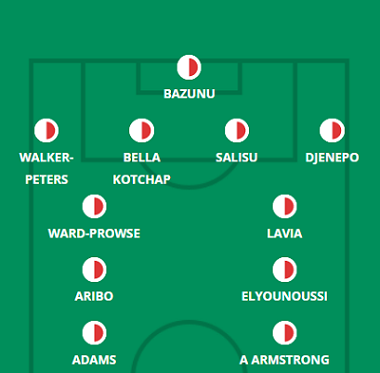
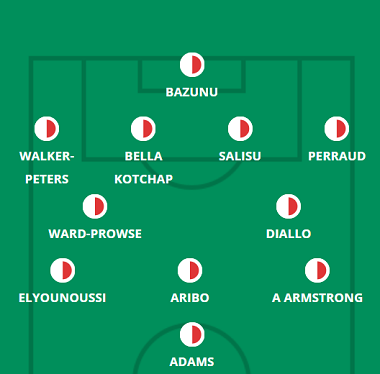
south e spurs

diff --git a/tot.html b/tot.html
@@ -66,7 +66,7 @@
             <hgroup>
                 <h1> Provável Escalação</h1>
                 <h2 class="direita"> por FabioVascão </h2>
-                <h3 class="direita"> Atualizado em 30/Agosto/2022 </h3>
+                <h3 class="direita"> Atualizado em 02/Setembro/2022 </h3>
             </hgroup>
     
             <h2 class="time"> <img src="_fotos/_logos/logospurs.png" />Tottenham</h2>
@@ -75,10 +75,9 @@
                     <img src="_fotos/_dinamicas/tot.png" />
                 </figure>
             </aside>
-                <div class="escalacao"><h2 class="titulo">Ultimas Notícias</h2> <h4><p>Bryan Gil (não especificado) e Lucas Moura (lesão no tendão) estão fora da viagem ao West Ham, enquanto Rodrigo Bentancur também é considerado uma grande dúvida devido à concussão. Enquanto isso, Oliver Skipp (lesão no pé) e Cristian Romero (lesão múscular) acabaram de voltar aos treinos, e Antonio Conte disse a repórteres na segunda-feira que os Spurs teriam que "esperar para dizer que estão completamente recuperados". Yves Bissouma para Bentancur é uma mudança muito provável, enquanto Conte prometeu que Richarlison "com certeza" seria titular em pelo menos uma das próximas três partidas - inicialmente, Conte disse que o brasileiro jogaria no "próximo jogo", antes de revisar essa resposta quando desafiado por um repórter. Mesmo que não houvesse nada a ser lido nesse lapso inicial da língua, a rotação parece provável nesta semana de três partidas e o fracassado Son Heung-min parece ser o primeiro na fila para um descanso com base na forma atual. Conte pode guardar mais mudanças para o fim de semana, já que a viagem ao West Ham parece a partida mais difícil no papel e considerando que apenas 65 horas separam as semanas 5 e 6; Os laterais Matt Doherty e Ryan Sessegnon estarão entre aqueles que provavelmente verão o tempo de campo nos próximos dois jogos da liga.</p></h4><br>
-                    <h4><strong>Jogadores fora da próxima partida:</strong> Bergwijn, Parrott, Rodon, Lucas Moura e Scarlett
-                    </h4><br><br>
-                    <h4><strong>Jogadores dúvidas:</strong> Romero e Skipp</h4>
+                <div class="escalacao"><h2 class="titulo">Ultimas Notícias</h2> <h4><p>Bryan Gil (não especificado) e Lucas Moura (lesão no tendão de aquiles) estão fora da visita do Fulham, mas Rodrigo Bentancur (concussão) e Cristian Romero (lesão múscular) foram aprovados e entrarão na disputa. Apenas 65 horas separam as semanas 5 e 6, então a decisão de Antonio Conte de fazer apenas uma mudança (forçada) no meio da semana e usar apenas um de seus cinco substitutos atribuídos aponta para o italiano fazer algumas alterações no XI inicial no sábado. Romero recuperar seu lugar de Davinson Sanchez é uma mudança viável, enquanto Bentancur fazendo o mesmo às custas de Yves Bissouma é outra depois que Conte sugeriu que o ex-jogador de Brighton estava um "passo atrás" de seus rivais posicionais - mas uma possível derrota para Pierre-Emile Hojbjerg pode fazer a mente de Conte para ele. Mudanças na lateral também estão em jogo, com Matt Doherty e Ryan Sessegnon pressionando pelo tempo de jogo às custas de Emerson Royal e Ivan Perisic, enquanto Conte já havia prometido jogar Richarlison contra West Ham, Fulham ou Marselha no Liga dos Campeões, um já foi, faltam dois. Será Son Heung-min ou Dejan Kulusevski abrindo caminho para o brasileiro se isso acontecer no sábado, com o ex o provável candidato ao machado se Conte estiver puramente decidindo a forma.</p></h4><br>
+                    <h4><strong>Jogadores fora da próxima partida:</strong> Bergwijn, Gil e Lucas Moura</h4><br><br>
+                    <h4><strong>Jogadores dúvidas:</strong> Hojbjerg</h4>
                 </div> 
         </header>
         </article>

diff --git a/south.html b/south.html
@@ -66,7 +66,7 @@
             <hgroup>
                 <h1> Provável Escalação</h1>
                 <h2 class="direita"> por FabioVascão </h2>
-                <h3 class="direita"> Atualizado em 30/Agosto/2022 </h3>
+                <h3 class="direita"> Atualizado em 02/Setembro/2022 </h3>
             </hgroup>
     
             <h2 class="time"> <img src="_fotos/_logos/logosouth.png" />Southampton</h2>
@@ -75,9 +75,9 @@
                     <img src="_fotos/_dinamicas/south.png" />
                 </figure>
             </aside>
-                <div class="escalacao"><h2 class="titulo">Ultimas Notícias</h2> <h4><p>Tino Livramento (lesão no joelho) é o único nome na lista de lesões a caminho da 5ª jornada, com Romain Perraud a regressar à equipa da jornada no sábado, após uma parada. Ralph Hasenhuttl parece ter se estabelecido em quatro zagueiros agora, dizendo que seu time parece mais "confortável" nessa forma após o experimento do ala no início da temporada, então agora é uma questão de pessoal e não de sistema daqui para frente. As atuações têm sido razoavelmente boas nos últimos dois jogos e meio na 'nova' forma, então provavelmente não haverá grandes mudanças contra o Chelsea. Stuart Armstrong para Moi Elyounoussi parece a alteração mais provável depois que o norueguês não fez muito para influenciar os procedimentos contra o Manchester United, enquanto Sekou Mara também espera dar uma olhada, talvez às custas de Adam Armstrong. O técnico do Saints tinha sete opções defensivas em seu banco na semana 4 e parece improvável que ele atrapalhe os quatro atuais zagueiros e dois meio-campistas à sua frente, embora Perraud para Moussa Djenepo seja uma mudança que estará nos cartões quando o primeiro está de volta à plena forma física.</p></h4><br>
-                    <h4><strong>Jogadores fora da próxima partida:</strong> Livramento e Smallbone</h4><br><br>
-                    <h4><strong>Jogadores dúvidas:</strong> Perraud</h4>
+                <div class="escalacao"><h2 class="titulo">Ultimas Notícias</h2> <h4><p>Tino Livramento (lesão no joelho) e Romeo Lavia (lesão muscular) estão fora do jogo do Wolves, enquanto a nova contratação Duje Caleta-Car não aparecerá devido a problemas de permissão de trabalho. Os Saints conseguiram duas vitórias e um empate em suas últimas quatro partidas, com a mudança para um zagueiro de um sistema de zagueiro fazendo maravilhas. O goleiro, James Ward-Prowse, Adam Armstrong, Moi Elyounoussi e toda a defesa, exceto o recém-reformado Romain Perraud, foram titulares sempre presentes nos últimos três jogos, enquanto um gol repentino e a implantação de Armstrong na esquerda ala viu Che Adams assumir o controle do papel do atacante solitário na configuração 4-2-3-1. Quem substitui Lavia é o grande quebra-cabeça que Ralph Hasenhuttl tem que resolver, com a possibilidade de chegada no prazo de Ainsley Maitland-Niles, mas o dinheiro está em um pivô duplo James Ward-Prowse / Ibrahima Diallo, já que Maitland-Niles só assinou na quinta feira. Ward-Prowse na verdade estava jogando como um número 10 mais avançado na vitória sobre o Chelsea, então qualquer movimento de volta para um papel de meio-campo abre uma vaga para Joe Aribo ou Stuart Armstrong. Os novos recrutas Samuel Edozie e Juan Larios podem estar no banco de reservas.</p></h4><br>
+                    <h4><strong>Jogadores fora da próxima partida:</strong> Caleta-Car, Lavia, Livramento e Romeu</h4><br><br>
+                    <h4><strong>Jogadores dúvidas:</strong> </h4>
                 </div> 
         </header>
         </article>
